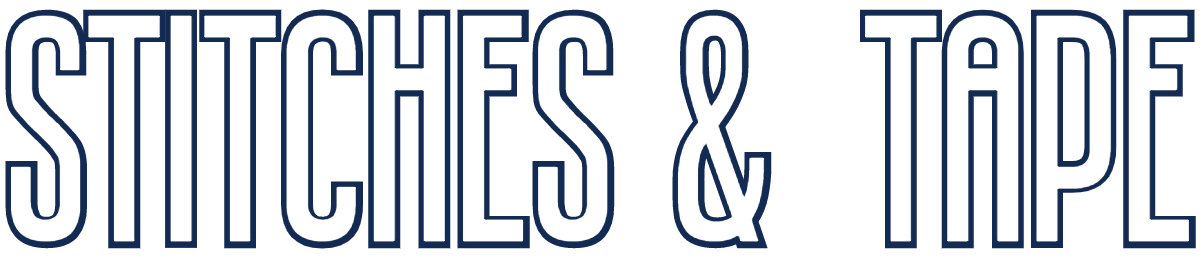
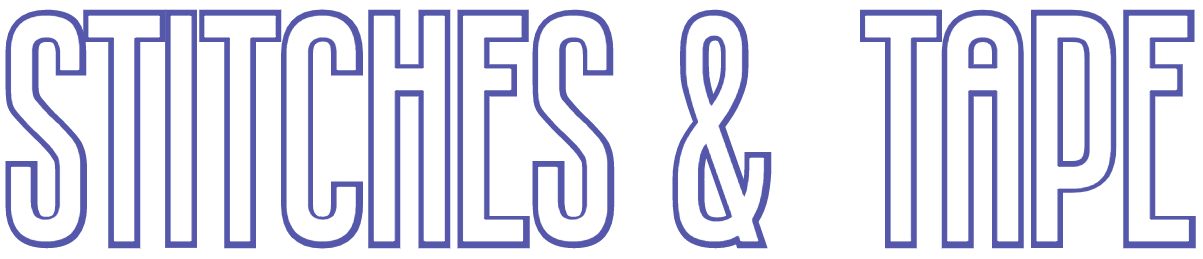
altering design

Changed region(s): [[0.0, 0.0309, 0.5229, 0.9575], [0.7074, 0.0309, 1.0, 0.9575], [0.5536, 0.0309, 0.6459, 0.9575]]

diff --git a/client/src/Components/Navbar/Nav.js b/client/src/Components/Navbar/Nav.js
@@ -2,6 +2,8 @@ import React, { useEffect } from 'react';
 import { Link } from 'react-router-dom';
 import 'materialize-css';
 
+let style = { display: 'none' };
+
 const Navbar = ({ handleSubcribe, handleLogin }) => {
   useEffect(() => {
     const M = window.M;
@@ -11,11 +13,24 @@ const Navbar = ({ handleSubcribe, handleLogin }) => {
     });
   });
 
-  // console.log(handleSubcribe(), handleLogin());
+  console.log(style);
+
+  window.addEventListener('scroll', () => {
+    style = window.scrollY >= 310 ? { display: 'fixed' } : { display: 'none' };
+    console.log(window.scrollY);
+    console.log(style);
+  });
+
+  // const controlNavbar = () => {
+  //   window.scrollY > 310
+  //     ? (visible = { display: 'none' })
+  //     : (visible = { display: 'inline' });
+  // };
+  // // console.log(handleSubcribe(), handleLogin());
 
   return (
     <header>
-      <div className='navbar-fixed'>
+      <div className='navbar-fixed' style={style}>
         {/* Nav bar */}
         <nav className='nav-wrapper'>
           <div className='container'>
@@ -36,30 +51,34 @@ const Navbar = ({ handleSubcribe, handleLogin }) => {
             </Link>
             <ul className='right hide-on-med-and-down'>
               <li>
-                <Link to='/'>About</Link>
+                <Link to='/' className='hoverable'>
+                  About
+                </Link>
               </li>
               <li>
-                <Link to='/newmeasure' className='logged-in'>
+                <Link to='/newmeasure' className='logged-in hoverable'>
                   New Measurements
                 </Link>
               </li>
               <li>
-                <Link to='/signup' id='signup' className='logged-out'>
+                <Link to='/signup' id='signup' className='logged-out hoverable'>
                   Sign Up
                 </Link>
               </li>
               <li>
-                <Link to='/signin' id='signin' className='logged-out'>
+                <Link to='/signin' id='signin' className='logged-out hoverable'>
                   Sign In
                 </Link>
               </li>
               <li>
-                <Link to='/' id='logout' className='logged-in'>
+                <Link to='/' id='logout' className='logged-in hoverable'>
                   Log Out
                 </Link>
               </li>
               <li>
-                <Link to='/contact'>Contact</Link>
+                <Link to='/contact' className='hoverable'>
+                  Contact
+                </Link>
               </li>
             </ul>
 

diff --git a/client/src/Components/Home/Parallax.js b/client/src/Components/Home/Parallax.js
@@ -1,21 +1,30 @@
-import React, { Component } from 'react';
-import { Parallax } from 'react-parallax';
+import React, { useEffect } from 'react';
+import M from 'materialize-css';
+import midbg from '../../Images/midbg.jpg';
+import logobg from '../../Images/logobg.jpg';
+import About from './About';
 
-class Divider extends Component {
-  render() {
-    return (
-      <div>
-        <Parallax
-          blur={{ min: -15, max: 15 }}
-          bgImage={require('../../Images/midbg.jpg')}
-          bgImageAlt='Sewing Supplies'
-          strength={-200}
-        >
-          <div style={{ height: '500px' }} />
-        </Parallax>
+const Parallax = () => {
+  useEffect(() => {
+    let elements = document.querySelectorAll('.parallax');
+    M.Parallax.init(elements);
+  }, []);
+
+  return (
+    <section>
+      <div className='parallax-container'>
+        <div className='parallax'>
+          <img src={midbg} />
+        </div>
       </div>
-    );
-  }
-}
+      <About />
+      <div className='parallax-container'>
+        <div className='parallax'>
+          <img src={logobg} />
+        </div>
+      </div>
+    </section>
+  );
+};
 
-export default Divider;
+export default Parallax;

diff --git a/client/src/App.js b/client/src/App.js
@@ -3,7 +3,7 @@ import { BrowserRouter, Route } from 'react-router-dom';
 import 'materialize-css/dist/css/materialize.min.css';
 import Navbar from './Components/Navbar/Nav';
 import Home from './Components/Home/Home';
-import Measurements from './Components/Tables/Measurement';
+// import Measurements from './Components/Tables/Measurement';
 import SignUp from './Components/Account/SignUp';
 import SignIn from './Components/Account/SignIn';
 import Contact from './Components/Contact/Contact';
@@ -48,8 +48,6 @@ class App extends Component {
   // };
 
   render() {
-    console.log(this.state);
-
     return (
       <BrowserRouter>
         <div className='App screen'>
@@ -64,7 +62,7 @@ class App extends Component {
             render={() => <SignIn signIn={this.signIn} />}
           />
           <Route path='/newmeasure' component={MeasureWrapper} />
-          <Route path='/measurements' component={Measurements} />
+          {/* <Route path='/measurements' component={Measurements} /> */}
           <Route path='/contact' component={Contact} />
           <Footer />
         </div>

diff --git a/client/src/Components/Home/Home.js b/client/src/Components/Home/Home.js
@@ -1,8 +1,8 @@
 import React, { Component } from 'react';
 import Header from './Header';
 import Title from './Title';
-import Divider from './Parallax';
 import About from './About';
+import Parallax from './Parallax';
 
 class Home extends Component {
   render() {
@@ -10,7 +10,7 @@ class Home extends Component {
       <div>
         <Header />
         <Title />
-        <Divider />
+        <Parallax />
         <About />
       </div>
     );

diff --git a/client/src/Components/Home/Header.css b/client/src/Components/Home/Header.css
@@ -1,11 +1,3 @@
-* {
-  box-sizing: border-box;
-}
-
-body {
-  background: url('../../Images/bodybg.png');
-}
-
 .container {
   background-color: white;
 }
@@ -19,10 +11,12 @@ body {
 }
 
 .nav-wrapper {
-  background-color: #132b52;
+  background-color: #5558aa;
 }
 
-img {
-  position: bottom;
+.img {
+  position: relative;
+  bottom: 0px;
+  top: 300px;
   min-height: 200px;
 }

diff --git a/client/src/Components/Home/Header.js b/client/src/Components/Home/Header.js
@@ -7,8 +7,7 @@ const Header = () => {
     <section>
       <div className='center'>
         <header className='image'>
-          <br/><br/><br/><br/><br/><br/><br/><br/><br/><br/>
-          <img src={Title} alt='Title' />
+          <img className='img' src={Title} alt='Title' />
         </header>
       </div>
     </section>

diff --git a/client/src/Components/Contact/Contact.js b/client/src/Components/Contact/Contact.js
@@ -45,7 +45,7 @@ class Contact extends Component {
               />
             </li>
             <li>
-              <input
+              <textarea
                 type='text-area'
                 id='message'
                 onChange={this.handleChange}

diff --git a/client/src/index.css b/client/src/index.css
@@ -5,6 +5,12 @@ body {
     sans-serif;
   -webkit-font-smoothing: antialiased;
   -moz-osx-font-smoothing: grayscale;
+  background: url('./Images/bodybg.png');
+  background-color: white;
+}
+
+* {
+  box-sizing: border-box;
 }
 
 code {
